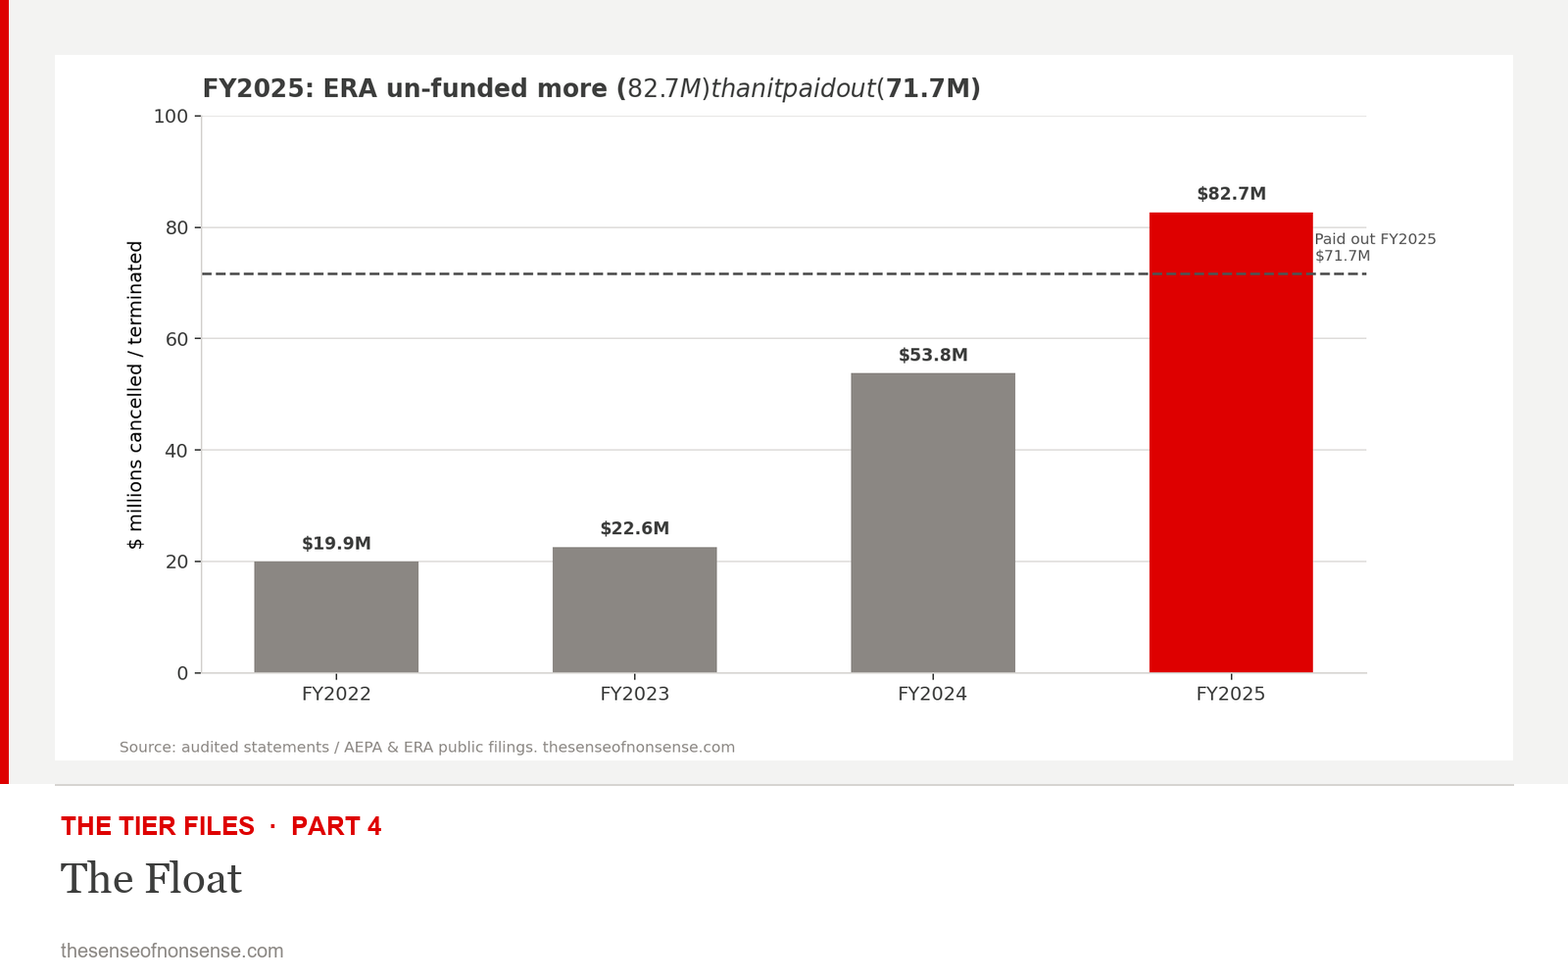
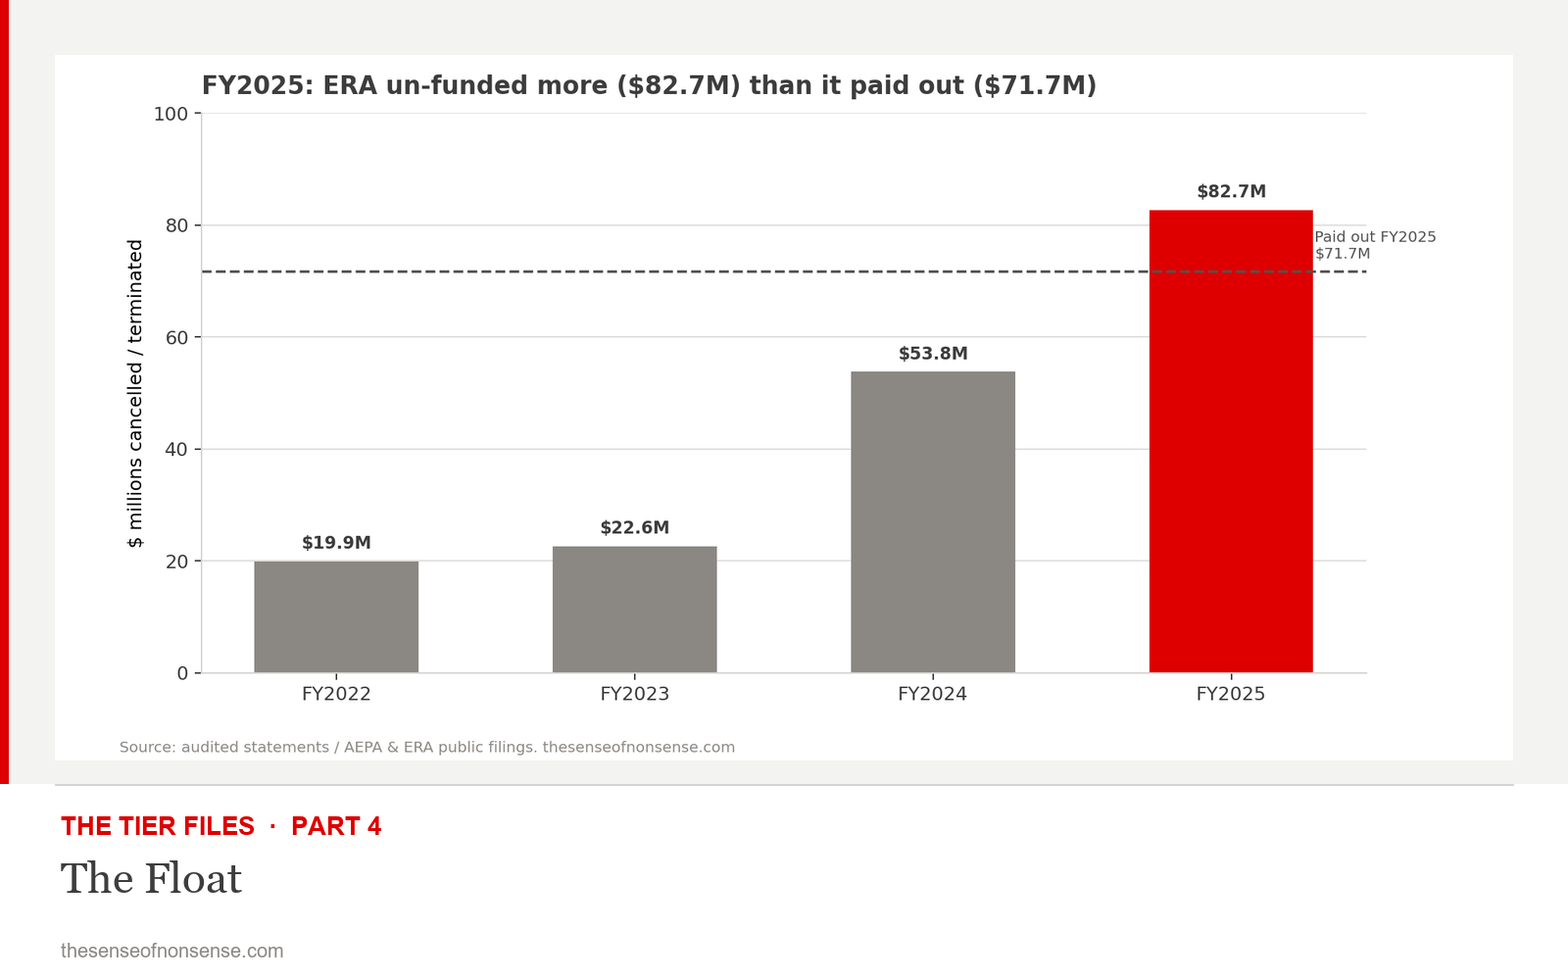
Escape chart dollar signs and retune flow-diagram type.

diff --git a/scripts/regen-tier-charts.py b/scripts/regen-tier-charts.py
@@ -87,7 +87,7 @@ def make_cover(chart_path: Path, out: Path, part: int, title: str):
     print("wrote", out.relative_to(ROOT))
 
 
-def labeled_box(ax, x, y, w, h, text, face, tc=INK, fs=9):
+def labeled_box(ax, x, y, w, h, text, face, tc=INK, fs=8.5):
     ax.add_patch(FancyBboxPatch(
         (x, y), w, h, boxstyle="square,pad=0",
         linewidth=1, edgecolor=GRID, facecolor=face,
@@ -113,7 +113,7 @@ ax.bar(x, grants, w, label="Innovation & technology grants", color=MUTED)
 ax.bar(x, grf, w, bottom=grants, label="Transfers to General Revenue Fund", color=HIGHLIGHT)
 ax.set_xticks(x)
 ax.set_xticklabels(years)
-ax.set_ylabel("$ millions")
+ax.set_ylabel("\\$ millions")
 ax.set_ylim(0, 560)
 ax.yaxis.grid(True, color=GRID, linewidth=0.6)
 ax.set_axisbelow(True)
@@ -125,11 +125,11 @@ for i, (g, t) in enumerate(zip(grants, grf)):
 save(fig, p1 / "tier-fund-flow.png")
 
 fig, ax = plt.subplots(figsize=(10, 4.4))
-style_ax(ax, "$1.85 to general revenue per dollar granted")
+style_ax(ax, "\\$1.85 to general revenue per dollar granted")
 vals = [590.0, 1088.8]
 labs = [
-    "Innovation & technology grants\n$590M (4-year)",
-    "Transfers to General Revenue Fund\n$1,089M (4-year)",
+    "Innovation & technology grants\n\\$590M (4-year)",
+    "Transfers to General Revenue Fund\n\\$1,089M (4-year)",
 ]
 cols = [MUTED, HIGHLIGHT]
 ax.barh([1, 0], vals, color=cols, height=0.55)
@@ -137,7 +137,7 @@ ax.set_xlim(0, 1300)
 ax.set_yticks([])
 ax.xaxis.grid(True, color=GRID, linewidth=0.6)
 ax.set_axisbelow(True)
-ax.set_xlabel("$ millions")
+ax.set_xlabel("\\$ millions")
 ax.text(30, 1, labs[0], va="center", color=INK, fontsize=10, fontweight="bold")
 ax.text(30, 0, labs[1], va="center", color=BG, fontsize=10, fontweight="bold")
 ax.annotate(
@@ -148,18 +148,18 @@ ax.annotate(
 save(fig, p1 / "p1-ratio.png")
 
 fig, ax = plt.subplots(figsize=(10, 5.0))
-style_ax(ax, "TIER Fund accumulated surplus tripled to $1.1B")
+style_ax(ax, "TIER Fund accumulated surplus tripled to \\$1.1B")
 ys = ["FY2022", "FY2023", "FY2024", "FY2025"]
 surplus = [336.8, 591.8, 1016.6, 1105.4]
 ax.fill_between(ys, surplus, color=HIGHLIGHT, alpha=0.18)
 ax.plot(ys, surplus, color=HIGHLIGHT, linewidth=2.4, marker="o", markersize=5)
 ax.set_ylim(0, 1300)
-ax.set_ylabel("$ millions")
+ax.set_ylabel("\\$ millions")
 ax.yaxis.grid(True, color=GRID, linewidth=0.6)
 ax.set_axisbelow(True)
 for x_, y_ in zip(ys, surplus):
     ax.annotate(
-        f"${y_:,.0f}M", (x_, y_), textcoords="offset points", xytext=(0, 8),
+        f"\\${y_:,.0f}M", (x_, y_), textcoords="offset points", xytext=(0, 8),
         ha="center", fontsize=9, color=INK,
     )
 save(fig, p1 / "tier-surplus.png")
@@ -170,11 +170,11 @@ rev = [709.4, 772.1, 936.2, 223.3]
 cols = [MUTED, MUTED, MUTED, HIGHLIGHT]
 ax.bar(ys, rev, color=cols, width=0.6)
 ax.set_ylim(0, 1100)
-ax.set_ylabel("$ millions")
+ax.set_ylabel("\\$ millions")
 ax.yaxis.grid(True, color=GRID, linewidth=0.6)
 ax.set_axisbelow(True)
 for x_, y_ in zip(ys, rev):
-    ax.text(x_, y_ + 28, f"${y_:,.0f}M", ha="center", fontsize=9, color=INK, fontweight="bold")
+    ax.text(x_, y_ + 28, f"\\${y_:,.0f}M", ha="center", fontsize=9, color=INK, fontweight="bold")
 ax.annotate(
     "−76%", xy=(3, 223), xytext=(2.15, 520),
     fontsize=12, fontweight="bold", color=HIGHLIGHT,
@@ -194,10 +194,10 @@ ax.text(
     fontsize=13, fontweight="bold", color=INK, ha="left",
 )
 labeled_box(ax, 34, 80, 32, 10, "Regulated facility\npays fund credit", WASH, fs=9)
-labeled_box(ax, 34, 64, 32, 10, "TIER Fund\n$2.64B collected (4 yrs)", MUTED_LIGHT, fs=9)
-labeled_box(ax, 3, 40, 28, 12, "Grants\n$590M (~22%)", MUTED, fs=9)
-labeled_box(ax, 36, 40, 28, 12, "General revenue\n$1,089M (~41%)", HIGHLIGHT, BG, fs=9)
-labeled_box(ax, 69, 40, 28, 12, "Held as surplus\n$1,105M end FY2025", SECONDARY, BG, fs=9)
+labeled_box(ax, 34, 64, 32, 10, "TIER Fund\n\\$2.64B collected (4 yrs)", MUTED_LIGHT, fs=9)
+labeled_box(ax, 3, 40, 28, 12, "Grants\n\\$590M (~22%)", MUTED, fs=9)
+labeled_box(ax, 36, 40, 28, 12, "General revenue\n\\$1,089M (~41%)", HIGHLIGHT, BG, fs=9)
+labeled_box(ax, 69, 40, 28, 12, "Held as surplus\n\\$1,105M end FY2025", SECONDARY, BG, fs=9)
 labeled_box(ax, 3, 18, 28, 11, "Mostly ERA &\nother delivery agents", WASH, fs=8)
 labeled_box(ax, 36, 18, 28, 11, "Indistinguishable from\ntax / royalty once in", WASH, fs=8)
 labeled_box(ax, 69, 18, 28, 11, "Not granted.\nNot transferred.", WASH, fs=8)
@@ -220,7 +220,7 @@ yrs = ["2022-23", "2023-24", "2024-25", "2025-26", "2026-27"]
 voted = [10.541, 10.541, 10.541, 10.541, 10.541]
 actual = [7.097, 7.468, 8.204, 10.541, None]
 fig, ax = plt.subplots(figsize=(10, 5.2))
-style_ax(ax, "Program 9.1 budget frozen at $10.541M for five years")
+style_ax(ax, "Program 9.1 budget frozen at \\$10.541M for five years")
 x = np.arange(len(yrs))
 ax.bar(x - 0.18, voted, 0.36, color=MUTED, label="Voted budget")
 for i, a in enumerate(actual):
@@ -230,7 +230,7 @@ for i, a in enumerate(actual):
     ax.bar(i + 0.18, a, 0.36, color=color, label="Actual / forecast" if i == 0 else None)
 ax.set_xticks(x)
 ax.set_xticklabels(yrs)
-ax.set_ylabel("$ millions")
+ax.set_ylabel("\\$ millions")
 ax.set_ylim(0, 13.5)
 ax.yaxis.grid(True, color=GRID, linewidth=0.6)
 ax.set_axisbelow(True)
@@ -252,7 +252,7 @@ ax.bar(x - 0.18, reg, 0.36, color=MUTED, label="AEPA program 9.1 (actual)")
 ax.bar(x + 0.18, era, 0.36, color=HIGHLIGHT, label="ERA operating expenses")
 ax.set_xticks(x)
 ax.set_xticklabels(labels)
-ax.set_ylabel("$ millions")
+ax.set_ylabel("\\$ millions")
 ax.set_ylim(0, 14)
 ax.yaxis.grid(True, color=GRID, linewidth=0.6)
 ax.set_axisbelow(True)
@@ -282,11 +282,11 @@ ax.set_yticks(y)
 ax.set_yticklabels(labs, fontsize=9)
 ax.invert_yaxis()
 ax.set_xlim(0, 1150)
-ax.set_xlabel("$ millions")
+ax.set_xlabel("\\$ millions")
 ax.xaxis.grid(True, color=GRID, linewidth=0.6)
 ax.set_axisbelow(True)
 for yi, v in zip(y, vals):
-    ax.text(v + 15, yi, f"${v:,.1f}M", va="center", fontsize=9, color=INK)
+    ax.text(v + 15, yi, f"\\${v:,.1f}M", va="center", fontsize=9, color=INK)
 save(fig, p2 / "p2-scale.png")
 make_cover(p2 / "p2-scale.png", p2 / "cover.png", 2, "The Eight-Million-Dollar Regulator")
 
@@ -300,12 +300,12 @@ disb = [44.0, 100.7, 84.4, 84.3, 71.7]
 ax.plot(fy, hold, color=HIGHLIGHT, linewidth=2.4, marker="o", label="Cash & investments")
 ax.bar(fy, disb, color=MUTED, width=0.45, label="Project disbursements")
 ax.set_ylim(0, 680)
-ax.set_ylabel("$ millions")
+ax.set_ylabel("\\$ millions")
 ax.yaxis.grid(True, color=GRID, linewidth=0.6)
 ax.set_axisbelow(True)
 ax.legend(frameon=False, fontsize=9)
 ax.annotate(
-    "$539.5M held", xy=(4, 539.5), xytext=(2.4, 610),
+    "\\$539.5M held", xy=(4, 539.5), xytext=(2.4, 610),
     fontsize=9, color=HIGHLIGHT,
     arrowprops=dict(arrowstyle="->", color=HIGHLIGHT),
 )
@@ -317,13 +317,13 @@ interest = [4.6, 5.3, 19.2, 29.7, 25.6]
 cols = [MUTED, MUTED, MUTED, HIGHLIGHT, MUTED]
 ax.bar(fy, interest, color=cols, width=0.55)
 ax.set_ylim(0, 38)
-ax.set_ylabel("$ millions")
+ax.set_ylabel("\\$ millions")
 ax.yaxis.grid(True, color=GRID, linewidth=0.6)
 ax.set_axisbelow(True)
 for x_, y_ in zip(fy, interest):
-    ax.text(x_, y_ + 0.7, f"${y_:.1f}M", ha="center", fontsize=9, color=INK, fontweight="bold")
+    ax.text(x_, y_ + 0.7, f"\\${y_:.1f}M", ha="center", fontsize=9, color=INK, fontweight="bold")
 ax.annotate(
-    ">$½ of grant revenue\n($51.9M)", xy=(3, 29.7), xytext=(1.2, 33),
+    "Over half of grant revenue\n($51.9M)", xy=(3, 29.7), xytext=(1.2, 33),
     fontsize=9, color=HIGHLIGHT,
     arrowprops=dict(arrowstyle="->", color=HIGHLIGHT),
 )
@@ -340,10 +340,10 @@ ax.text(
     fontsize=13, fontweight="bold", color=INK,
 )
 rows = [
-    ("Cash", "$309.5M", "Demand deposits"),
-    ("Short-term GICs", "$40.0M", "Scotiabank & CWB · 4.54–5.49%"),
-    ("Long-term GICs", "$190.0M", "Scotiabank & ATB · 3.75–4.14% · Nov 2026–Apr 2027"),
-    ("Total holdings", "$539.5M", "As of May 31, 2025 (Note 5)"),
+    ("Cash", "\\$309.5M", "Demand deposits"),
+    ("Short-term GICs", "\\$40.0M", "Scotiabank & CWB · 4.54–5.49%"),
+    ("Long-term GICs", "\\$190.0M", "Scotiabank & ATB · 3.75–4.14% · Nov 2026–Apr 2027"),
+    ("Total holdings", "\\$539.5M", "As of May 31, 2025 (Note 5)"),
 ]
 y = 78
 for i, (a, b, c) in enumerate(rows):
@@ -368,38 +368,38 @@ make_cover(p3 / "p3-holdings.png", p3 / "cover.png", 3, "The Climate Fund That B
 # --- Part 4 ---
 p4 = SERIES / "part-4-the-float"
 fig, ax = plt.subplots(figsize=(10, 5.2))
-style_ax(ax, "Sixteen years of payouts sit far below the $1.17B commitment")
+style_ax(ax, "Sixteen years of payouts sit far below the \\$1.17B commitment")
 annual = [0, 0.1, 23, 22, 37.1, 30, 28, 21.7, 34.1, 33.6, 38.2, 44, 100.7, 84.4, 84.3, 71.7]
 cum = np.cumsum(annual)
 years_n = list(range(2010, 2026))
 ax.plot(years_n, cum, color=HIGHLIGHT, linewidth=2.4, label="Cumulative project expenses")
-ax.axhline(1170, color=MUTED, linestyle="--", linewidth=1.5, label="$1.17B committed (headline)")
+ax.axhline(1170, color=MUTED, linestyle="--", linewidth=1.5, label="\\$1.17B committed (headline)")
 ax.set_ylim(0, 1400)
-ax.set_ylabel("$ millions")
+ax.set_ylabel("\\$ millions")
 ax.yaxis.grid(True, color=GRID, linewidth=0.6)
 ax.set_axisbelow(True)
 ax.legend(frameon=False, fontsize=9)
 ax.annotate(
-    f"~${cum[-1]:.0f}M paid", xy=(2025, cum[-1]), xytext=(2015, 900),
+    f"~\\${cum[-1]:.0f}M paid", xy=(2025, cum[-1]), xytext=(2015, 900),
     fontsize=9, color=HIGHLIGHT,
     arrowprops=dict(arrowstyle="->", color=HIGHLIGHT),
 )
 save(fig, p4 / "era-float.png")
 
 fig, ax = plt.subplots(figsize=(10, 5.2))
-style_ax(ax, "FY2025: ERA un-funded more ($82.7M) than it paid out ($71.7M)")
+style_ax(ax, "FY2025: ERA un-funded more (\\$82.7M) than it paid out (\\$71.7M)")
 cy = ["FY2022", "FY2023", "FY2024", "FY2025"]
 canc = [19.9, 22.6, 53.8, 82.7]
 cols = [MUTED, MUTED, MUTED, HIGHLIGHT]
 ax.bar(cy, canc, color=cols, width=0.55)
 ax.axhline(71.7, color=SECONDARY, linestyle="--", linewidth=1.4)
-ax.text(3.28, 74, "Paid out FY2025\n$71.7M", fontsize=8, color=SECONDARY, ha="left")
+ax.text(3.28, 74, "Paid out FY2025\n\\$71.7M", fontsize=8, color=SECONDARY, ha="left")
 ax.set_ylim(0, 100)
-ax.set_ylabel("$ millions cancelled / terminated")
+ax.set_ylabel("\\$ millions cancelled / terminated")
 ax.yaxis.grid(True, color=GRID, linewidth=0.6)
 ax.set_axisbelow(True)
 for x_, y_ in zip(cy, canc):
-    ax.text(x_, y_ + 2.2, f"${y_:.1f}M", ha="center", fontsize=9, fontweight="bold", color=INK)
+    ax.text(x_, y_ + 2.2, f"\\${y_:.1f}M", ha="center", fontsize=9, fontweight="bold", color=INK)
 save(fig, p4 / "p4-cancellations.png")
 
 fig, ax = plt.subplots(figsize=(11, 6.4))
@@ -414,7 +414,7 @@ ax.text(
 )
 labeled_box(ax, 6, 74, 26, 12, "Announcement &\ncontribution agreement", WASH, fs=9)
 labeled_box(ax, 37, 74, 26, 12, "Float\n(cash + GIC ladder)", MUTED_LIGHT, fs=9)
-labeled_box(ax, 68, 74, 26, 12, "Milestone payments\n~55–60¢ / $", MUTED, fs=9)
+labeled_box(ax, 68, 74, 26, 12, "Milestone payments\n~55–60¢ / \\$", MUTED, fs=9)
 labeled_box(ax, 37, 44, 26, 12, "Quiet death\ncancel / terminate / On Hold", HIGHLIGHT, BG, fs=9)
 labeled_box(ax, 6, 16, 26, 12, "Re-announce\nin new challenge", WASH, fs=9)
 labeled_box(ax, 37, 16, 26, 12, "Interest clawback\n/ netting", WASH, fs=9)

diff --git a/content/series/the-tier-files/part-4-the-float/index.md b/content/series/the-tier-files/part-4-the-float/index.md
@@ -42,7 +42,7 @@ Add it up and you get about $650 million actually delivered to projects across t
 
 The number ERA publishes about itself, as of June 2026, is $1.17 billion committed toward 352 projects since 2009. Set those two figures side by side and sit with them a moment. This is a seventeen-year-old organization whose whole job is moving money to emissions reduction projects, and somewhere between 55 and 60 cents of every dollar it currently claims to have committed has ever made it out the door. The rest is either still working through the milestone pipeline, at $375 million of outstanding commitments as of last May, or it belongs to a category the press releases never revisit, which is the money that got announced and then quietly un-happened.
 
-![Line chart of cumulative CCEMC and ERA project disbursements reaching about 655 million dollars by fiscal 2025, far below the dashed line marking the 1,170 million dollar commitment headline, with annual cancellation values annotated.](era-float.png?v=4)
+![Line chart of cumulative CCEMC and ERA project disbursements reaching about 655 million dollars by fiscal 2025, far below the dashed line marking the 1,170 million dollar commitment headline, with annual cancellation values annotated.](era-float.png?v=5)
 
 *Sixteen years of disbursements against the current headline. FY2015 interpolated because the statements were never published.*
 
@@ -60,7 +60,7 @@ In fiscal 2025 the machine hit a milestone of sorts, because the value of agreem
 
 > **In fiscal 2025, Alberta's flagship clean technology funder un-funded more than it funded.**
 
-![Bar chart of contribution agreement value cancelled or terminated each year, rising from 19.9 million dollars in fiscal 2022 to 82.7 million in fiscal 2025, crossing above the dashed line marking the 71.7 million actually paid to projects that year.](p4-cancellations.png?v=4)
+![Bar chart of contribution agreement value cancelled or terminated each year, rising from 19.9 million dollars in fiscal 2022 to 82.7 million in fiscal 2025, crossing above the dashed line marking the 71.7 million actually paid to projects that year.](p4-cancellations.png?v=5)
 
 *The un-funding curve crossed the funding line in fiscal 2025.*
 
@@ -72,7 +72,7 @@ So what happens to a dollar committed to a project that will never exist? This i
 
 Nothing happens to it. That's the answer. It never left ERA in the first place, so there is nothing to recover and nobody to chase. The commitment quietly comes off the books, the cash stays exactly where it has been all along, in the $539.5 million of cash and GICs from last instalment, and the dollar goes back into the pool to await its next announcement. ERA has earned over $104 million in interest in the past five years by holding money in exactly this way, and in fiscal 2024 its interest income was more than half its grant revenue, which is a strange ratio for a granting agency and a perfectly normal one for a bank.
 
-![Flow diagram tracing an announced dollar from press release into the float at ERA, then out either as milestone payments of roughly 55 to 60 cents per dollar or into the quiet-death categories, with dead dollars cycling back to be re-announced, clawed back, or reallocated.](p4-lifecycle.png?v=4)
+![Flow diagram tracing an announced dollar from press release into the float at ERA, then out either as milestone payments of roughly 55 to 60 cents per dollar or into the quiet-death categories, with dead dollars cycling back to be re-announced, clawed back, or reallocated.](p4-lifecycle.png?v=5)
 
 *Sixteen years of audited statements, drawn as a flowchart.*
 

diff --git a/content/series/the-tier-files/part-1-the-billion-dollar-detour/index.md b/content/series/the-tier-files/part-1-the-billion-dollar-detour/index.md
@@ -43,7 +43,7 @@ That matters because Alberta's flagship industrial climate program derives much 
 
 But the numbers tell a messier story.
 
-![Flow diagram tracing a compliance dollar from a regulated facility into the TIER Fund, then out as grants, general-revenue transfers, or held surplus.](p1-path.png?v=4)
+![Flow diagram tracing a compliance dollar from a regulated facility into the TIER Fund, then out as grants, general-revenue transfers, or held surplus.](p1-path.png?v=5)
 
 *Where a compliance dollar goes, drawn from the Statement of Operations. Surplus is a stock; grants and transfers are four-year flows.*
 
@@ -72,7 +72,7 @@ Here is the fund's own accounting for fiscal years ended March 31, in thousands 
 | Transfers to General Revenue Fund | 311,949 | 335,451 | 416,666 | 24,699 |
 | Accumulated surplus, year end | 336,805 | 591,821 | 1,016,606 | 1,105,432 |
 
-![Stacked bar chart of TIER Fund outflows by fiscal year, FY2022 to FY2025, showing transfers to the General Revenue Fund exceeding innovation and technology grants in every year.](tier-fund-flow.png?v=4)
+![Stacked bar chart of TIER Fund outflows by fiscal year, FY2022 to FY2025, showing transfers to the General Revenue Fund exceeding innovation and technology grants in every year.](tier-fund-flow.png?v=5)
 
 *In every year, the transfer to general revenue exceeded the emissions reduction grants.*
 
@@ -82,7 +82,7 @@ Across the four years, the fund moved $1,088.8 million into general revenue and 
 
 > **For every dollar that went to emissions reduction technology (much of it routed to Emissions Reduction Alberta), about $1.85 went to the government's general accounts.**
 
-![Horizontal comparison of four-year TIER Fund grants at 590 million dollars against general-revenue transfers at 1,088.8 million dollars.](p1-ratio.png?v=4)
+![Horizontal comparison of four-year TIER Fund grants at 590 million dollars against general-revenue transfers at 1,088.8 million dollars.](p1-ratio.png?v=5)
 
 *$1.85 to general revenue for every grant dollar. The surplus pile is separate.*
 
@@ -96,7 +96,7 @@ And then there is the bottom row.
 
 While all this money moved through, the fund's accumulated surplus grew from $337 million to $1.105 billion. That is compliance money collected from industry, not granted, not transferred, just held.
 
-![Area chart of the TIER Fund accumulated surplus growing from 337 million dollars at the end of FY2022 to 1,105 million dollars at the end of FY2025.](tier-surplus.png?v=4)
+![Area chart of the TIER Fund accumulated surplus growing from 337 million dollars at the end of FY2022 to 1,105 million dollars at the end of FY2025.](tier-surplus.png?v=5)
 
 *The fund's accumulated surplus tripled in four years and now exceeds $1.1 billion.*
 
@@ -130,7 +130,7 @@ This series is about what the disclosed numbers say once you actually read them 
 
 Look again at that FY2025 revenue figure: $223 million, down 76 per cent from the year before.
 
-![Bar chart of TIER Fund annual revenue: 709 million dollars in FY2022, 772 million in FY2023, 936 million in FY2024, then a 76 per cent collapse to 223 million in FY2025.](tier-revenue.png?v=4)
+![Bar chart of TIER Fund annual revenue: 709 million dollars in FY2022, 772 million in FY2023, 936 million in FY2024, then a 76 per cent collapse to 223 million in FY2025.](tier-revenue.png?v=5)
 
 *Compliance revenue collapsed in FY2025 as facilities switched to discounted credits.*
 

diff --git a/content/series/the-tier-files/part-3-the-climate-fund-that-became-a-bank/index.md b/content/series/the-tier-files/part-3-the-climate-fund-that-became-a-bank/index.md
@@ -23,7 +23,7 @@ If you have ever laddered GICs for a retired parent, the following will feel war
 
 As of May 31, 2025, Emissions Reduction Alberta, the arm's-length agency that receives the largest share of Alberta's industrial carbon compliance grants, held $40 million in short-term GICs at Scotiabank and Canadian Western Bank earning between 4.54 and 5.49 per cent, and another $190 million in long-term GICs at Scotiabank and ATB, maturing between November 2026 and April 2027, earning between 3.75 and 4.14 per cent. Add the $309.5 million sitting in plain cash and you get $539.5 million, parked.
 
-![A statement-style panel reproducing ERA's disclosed holdings: 309.5 million dollars cash, 40 million in short-term GICs at Scotiabank and CWB, 190 million in long-term GICs at Scotiabank and ATB maturing November 2026 to April 2027, totalling 539.5 million.](p3-ladder.png?v=4)
+![A statement-style panel reproducing ERA's disclosed holdings: 309.5 million dollars cash, 40 million in short-term GICs at Scotiabank and CWB, 190 million in long-term GICs at Scotiabank and ATB maturing November 2026 to April 2027, totalling 539.5 million.](p3-ladder.png?v=5)
 
 *The ladder as disclosed, reformatted from Note 5. It reads like a retirement statement because structurally it is one. (Institution totals only; Note 5 does not break the GIC amounts per bank.)*
 
@@ -31,7 +31,7 @@ That's from Note 5 of ERA's own audited statements, and honestly it's a perfectl
 
 > **An agency does not ladder money into 2027 that it intends to spend soon. The portfolio is the strategy, written down.**
 
-![Combination chart showing ERA's cash and investment holdings of roughly half a billion dollars hovering far above annual project disbursements of 44 to 101 million per year, fiscal 2021 through 2025.](p3-holdings.png?v=4)
+![Combination chart showing ERA's cash and investment holdings of roughly half a billion dollars hovering far above annual project disbursements of 44 to 101 million per year, fiscal 2021 through 2025.](p3-holdings.png?v=5)
 
 *Roughly seven and a half years of disbursements, held.*
 
@@ -41,7 +41,7 @@ Some context for the pile. ERA paid out $71.7 million to projects last year. So 
 
 Meanwhile the interest accumulates the way interest does. $4.6 million, then $5.3 million, then $19.2 million, then $29.7 million, then $25.6 million over the past five years, which comes to just over $104 million earned by not spending money. In fiscal 2024 the arrangement achieved something I want to make sure you don't skim past: ERA's interest income, at $29.7 million, exceeded half of its grant revenue for the year, which was $51.9 million. For every two dollars the government gave the agency to fund clean technology, the agency made another dollar by holding what it already had.
 
-![Bar chart of ERA interest income rising from 4.6 million dollars in fiscal 2021 to a peak of 29.7 million in fiscal 2024, highlighted because it exceeded half of that year's grant revenue.](p3-interest.png?v=4)
+![Bar chart of ERA interest income rising from 4.6 million dollars in fiscal 2021 to a peak of 29.7 million in fiscal 2024, highlighted because it exceeded half of that year's grant revenue.](p3-interest.png?v=5)
 
 *Just over $104 million earned in five years by not spending money.*
 

diff --git a/content/series/the-tier-files/part-2-the-eight-million-dollar-regulator/index.md b/content/series/the-tier-files/part-2-the-eight-million-dollar-regulator/index.md
@@ -33,7 +33,7 @@ Here is what that line has looked like in the government's own estimates and yea
 | 2025-26 | 10,541 | 10,541 (forecast) |
 | 2026-27 | 10,541 | estimate year |
 
-![Grouped bar chart of AEPA program 9.1: the voted budget sits at exactly 10.541 million dollars in five consecutive budgets while actual spending came in at 7.1, 7.5, and 8.2 million.](p2-frozen-line.png?v=4)
+![Grouped bar chart of AEPA program 9.1: the voted budget sits at exactly 10.541 million dollars in five consecutive budgets while actual spending came in at 7.1, 7.5, and 8.2 million.](p2-frozen-line.png?v=5)
 
 *Five budgets, one number, underspent in every completed year.*
 
@@ -49,11 +49,11 @@ It's hard to feel a number like $8.2 million without something beside it, so her
 
 Emissions Reduction Alberta, the arm's-length agency that receives the grants and writes the cheques (and which we will spend considerable time with later in this series), reported operating expenses of $11.4 million in its most recent year, and between $9.5 and $11.4 million in each of the past four. So the organization that distributes the money costs more to run, every single year, than the entire provincial operation that regulates the market the money comes from. The cheque-writer out-budgets the referee.
 
-![Grouped bar chart comparing AEPA climate regulatory operations spending of 7 to 8 million dollars per year against ERA operating expenses of 9.5 to 11.4 million per year.](p2-referee-vs-bank.png?v=4)
+![Grouped bar chart comparing AEPA climate regulatory operations spending of 7 to 8 million dollars per year against ERA operating expenses of 9.5 to 11.4 million per year.](p2-referee-vs-bank.png?v=5)
 
 *The agency distributing the money costs more to run than the operation regulating the market. Fiscal years differ by two months (AEPA March 31; ERA May 31).*
 
-![Horizontal bar chart placing the regulatory branch's 8.2 million dollar spend beside the 936 million dollar TIER revenue it polices, ERA's 539 million in holdings, ERA's 25.6 million in interest, and ERA's 11.4 million overhead.](p2-scale.png?v=4)
+![Horizontal bar chart placing the regulatory branch's 8.2 million dollar spend beside the 936 million dollar TIER revenue it polices, ERA's 539 million in holdings, ERA's 25.6 million in interest, and ERA's 11.4 million overhead.](p2-scale.png?v=5)
 
 *The referee, drawn to scale against the money it is responsible for.*
 
